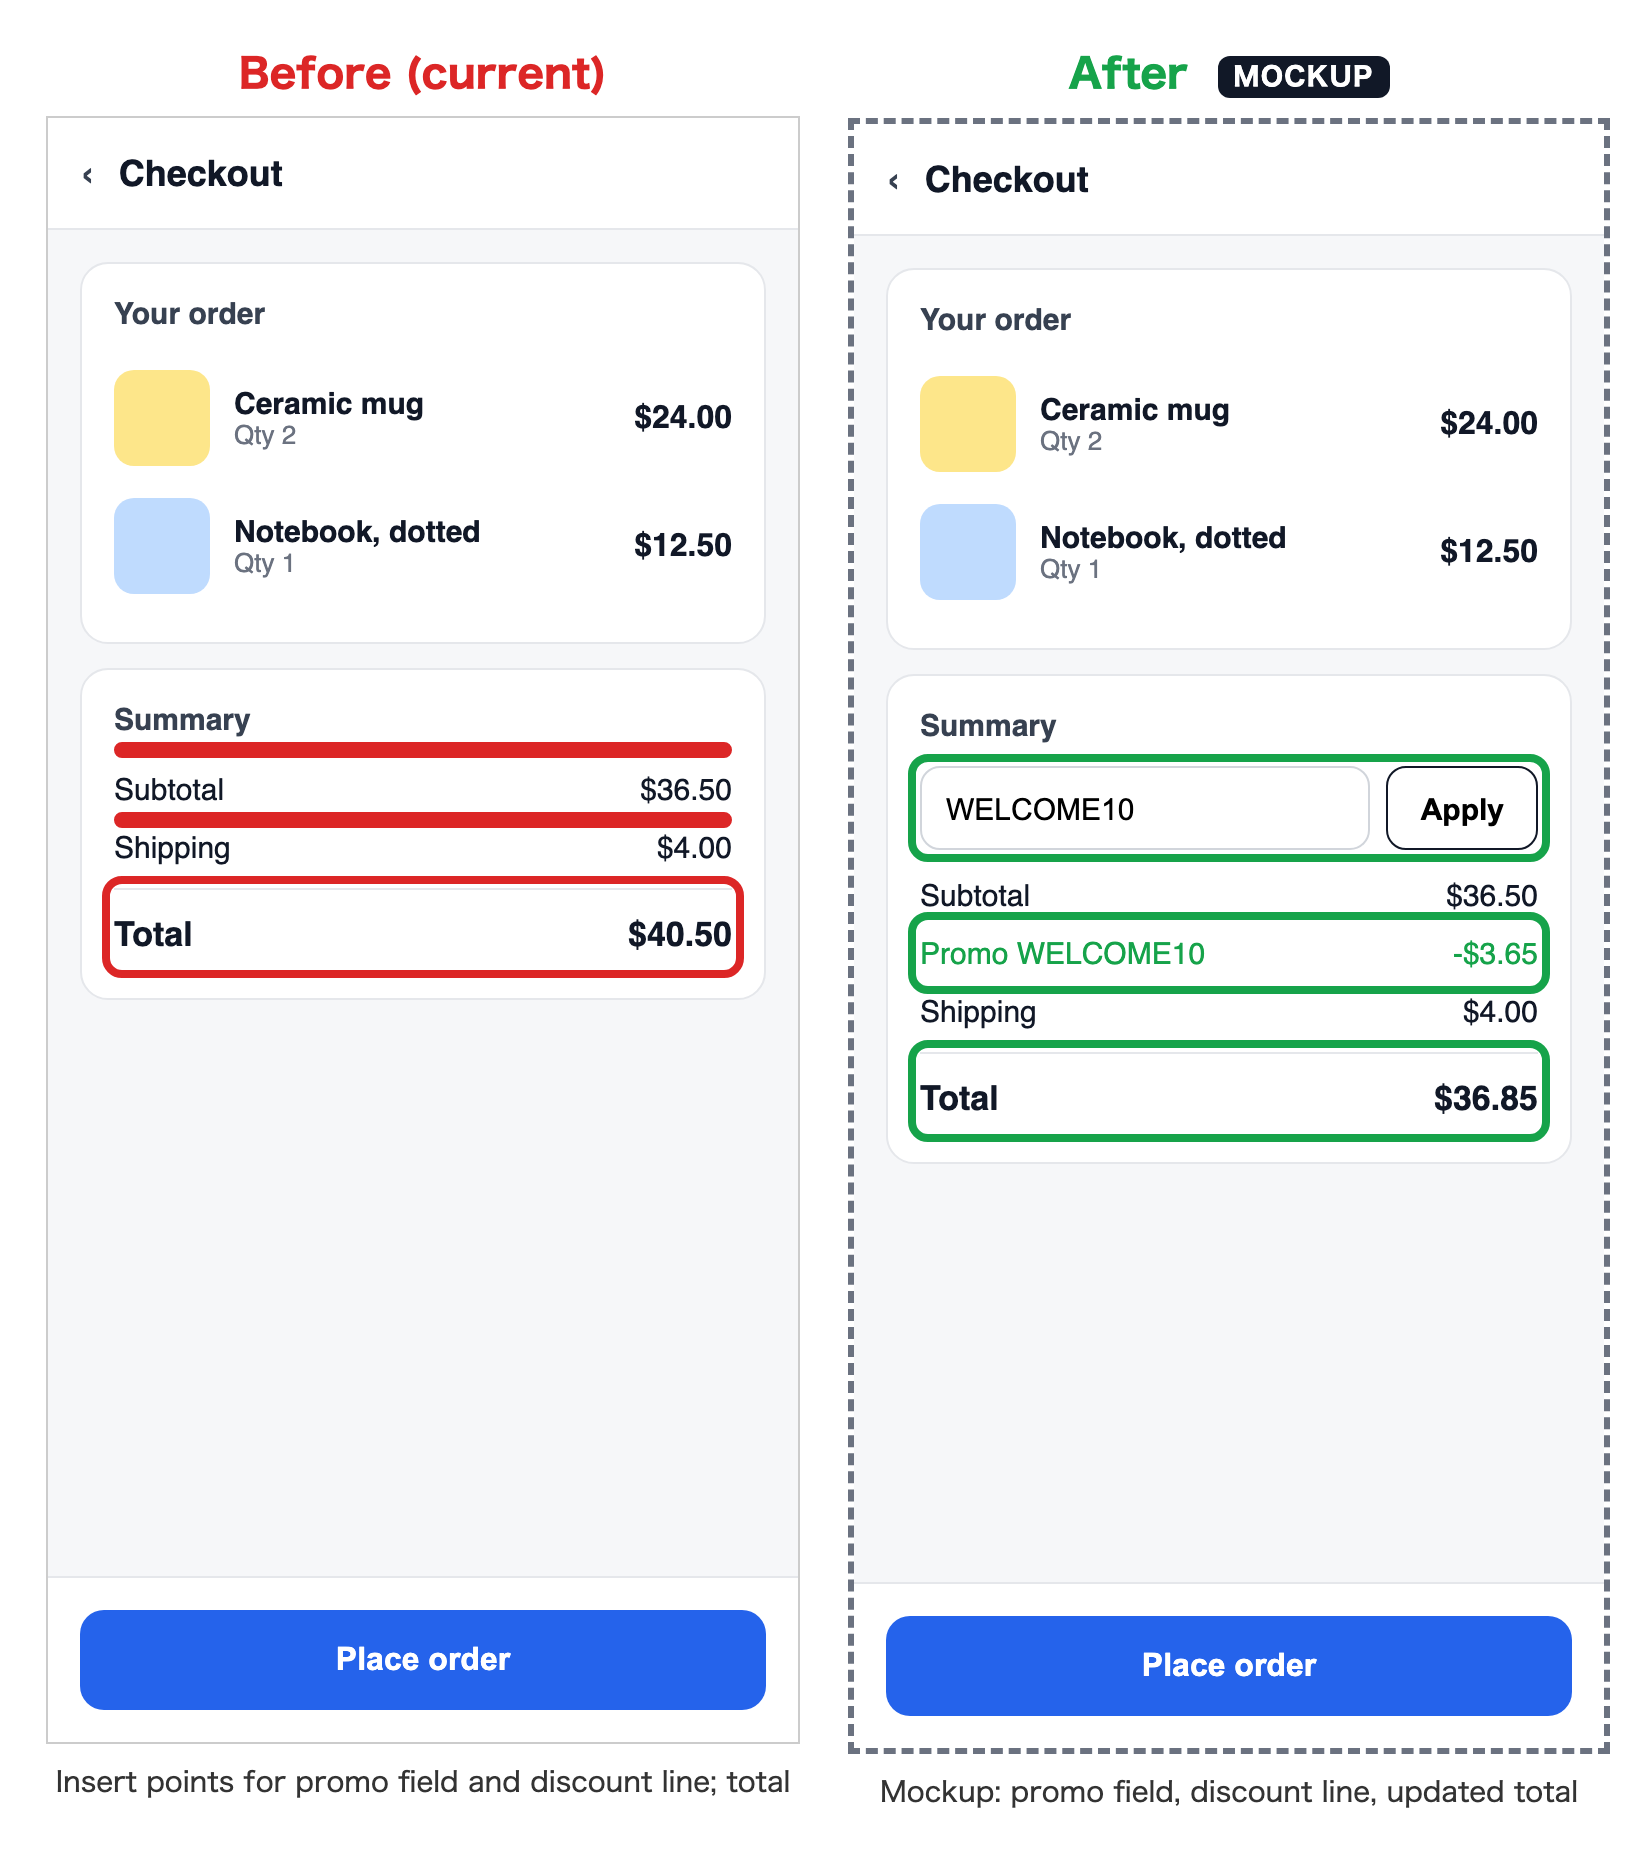
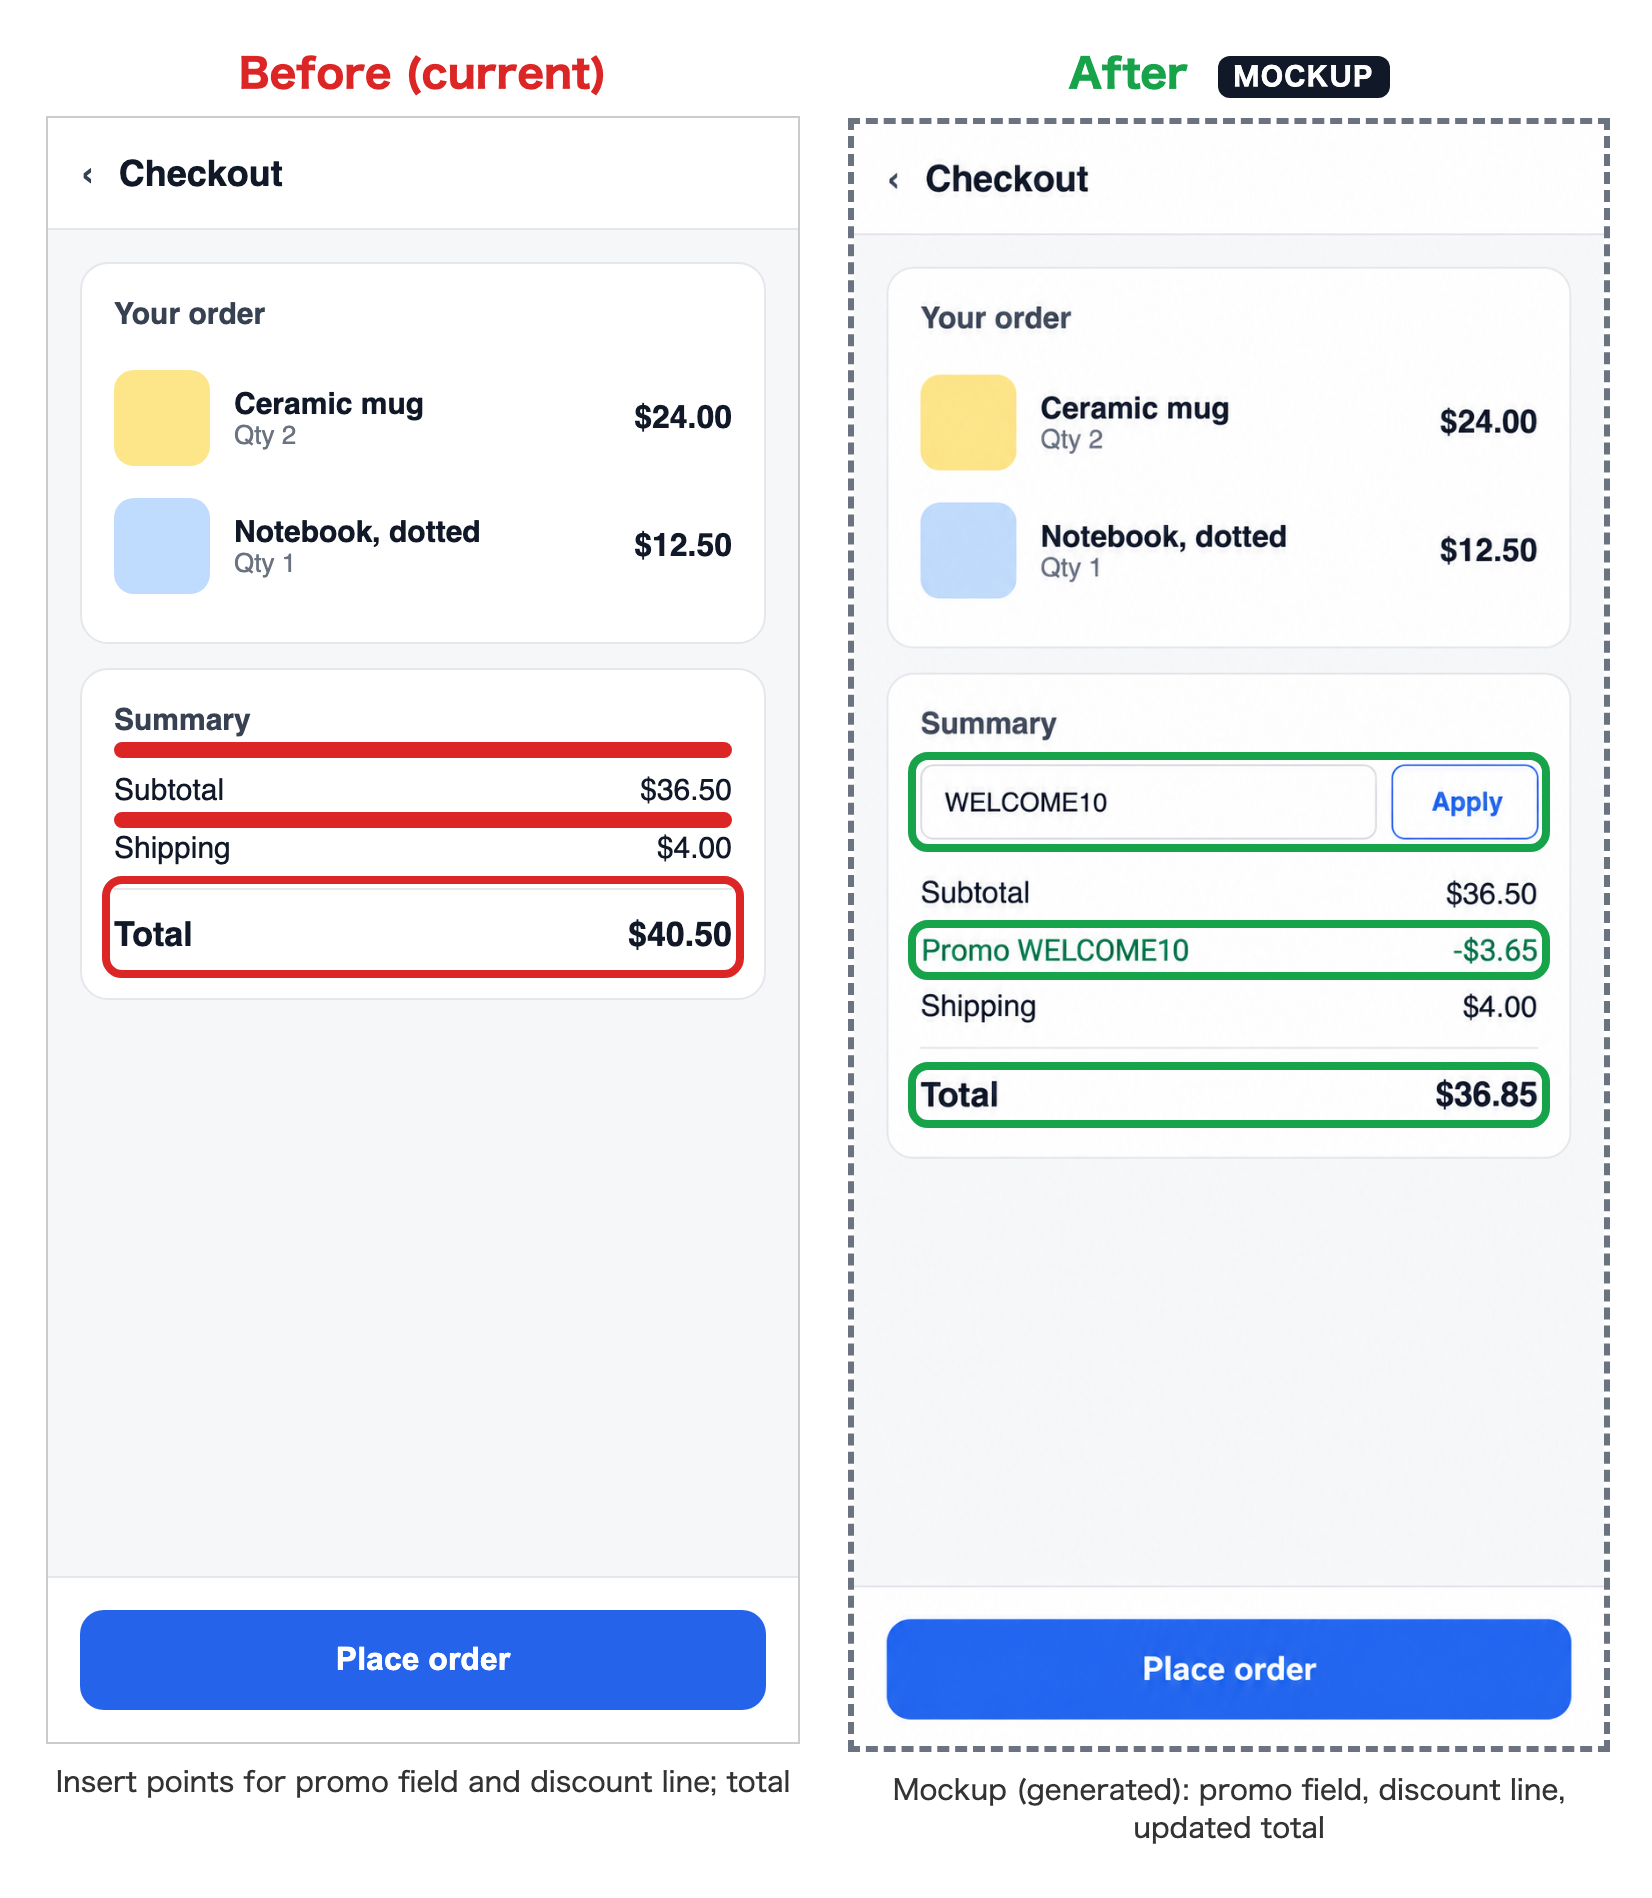
README: lead with the two questions; generated mockup example

diff --git a/README.md b/README.md
@@ -2,9 +2,16 @@
 
 An agent skill that gates UI changes with real before/after images.
 
-Coding agents are quick to propose and ship UI changes from guesses. This skill
-makes the agent show the change before building it, then prove that what
-shipped matches what was approved.
+When you build a product with an AI agent, two questions are surprisingly hard
+to answer from text alone:
+
+- **"So what exactly are you going to change?"** - before it writes code
+- **"So what exactly did you change?"** - after it says "done"
+
+A paragraph of prose or a diff leaves you imagining the screen. This skill makes
+the agent answer both questions with pictures: it shows the change on the real
+screen before building it, then proves that what shipped matches what you
+approved.
 
 Most before/after skills document a change after it is made (screenshots for a
 PR). This one is a gate: the preview is approved *before* implementation, and
@@ -42,6 +49,12 @@ app - no cropped fragments, redrawn or generated mockups, or fake data. A user
 or project can explicitly choose `mockup-allowed` (for example in AGENTS.md or
 CLAUDE.md); mockup panels are then badged `MOCKUP` in the image. Verification
 (phase 4) always uses a real capture.
+
+![Before (real capture) / after (generated mockup)](examples/mockup.png)
+
+Under `mockup-allowed` the "after" side can be a design mockup (here generated
+from the real capture). The "before" side stays a real capture, so the reviewer
+still sees the exact screen that will change.
 
 ## Install
 
